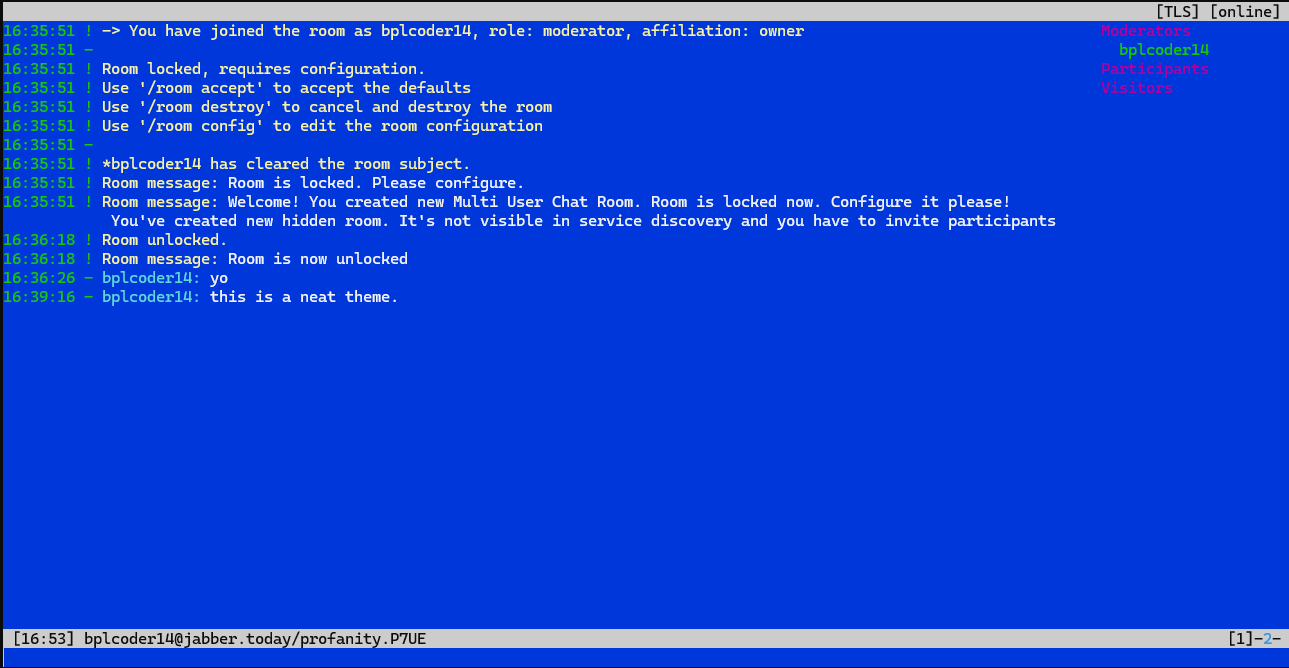
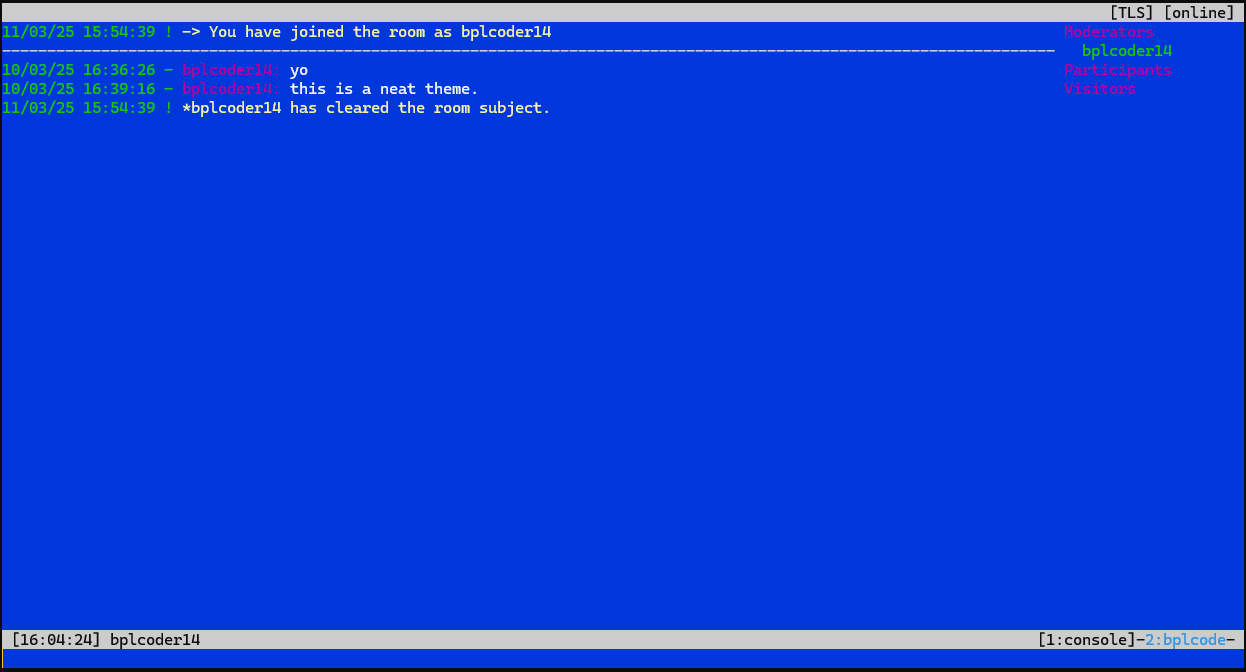
Update theme list new screenshots that used '/theme full-load (theme name)'. Add boothj5_laptop and boothj5_slack themes.

Changed region(s): [[0.0, 0.0, 1.0, 0.4491], [0.0, 0.9281, 1.0, 1.0]]

diff --git a/js/load_themes.js b/js/load_themes.js
@@ -19,6 +19,8 @@ const themeList = [
     "batman",
     "bios",
     "boothj5",
+    "boothj5_slack",
+    "boothj5_laptop",
     "complex",
     "forest",
     "gruvbox",
